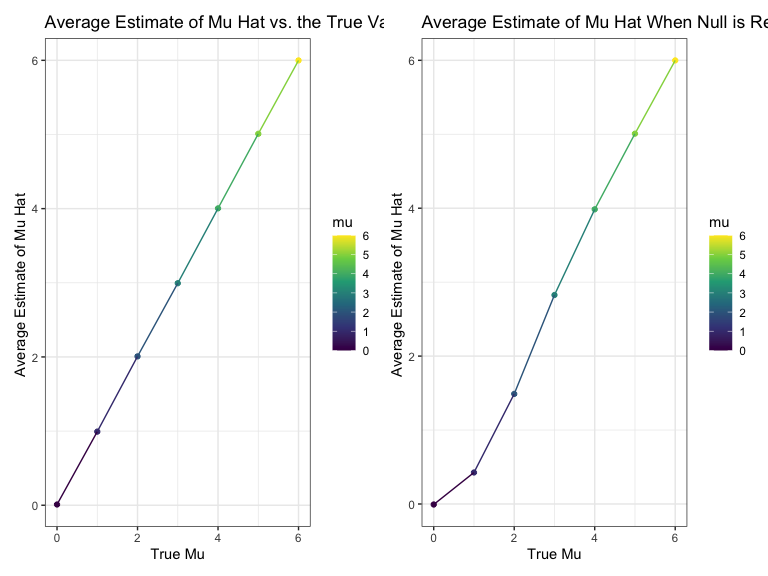
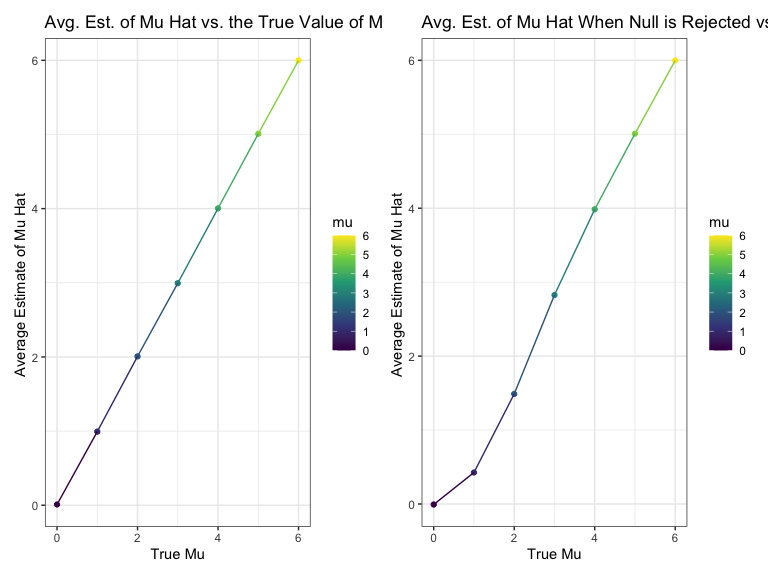
minor code changes

Changed region(s): [[0.5625, 0.0312, 1.0, 0.0625], [0.0938, 0.0312, 0.5, 0.0625]]

diff --git a/p8105_hw5_vf2280.md b/p8105_hw5_vf2280.md
@@ -690,7 +690,7 @@ tibble(
   ggplot(aes(x = mu, y = avg_of_estimate, color = mu)) +
   geom_point() +
   labs(
-    title = "Average Estimate of Mu Hat vs. the True Value of Mu",
+    title = "Avg. Est. of Mu Hat vs. the True Value of Mu",
     x = "True Mu",
     y = "Average Estimate of Mu Hat "
   ) +
@@ -708,7 +708,7 @@ plot_avg_rej_true =
   ggplot(aes(x = mu, y = avg_of_rej_estimate, color = mu)) +
   geom_point() +
   labs(
-    title = "Average Estimate of Mu Hat When Null is Rejected vs. the True Value of Mu",
+    title = "Avg. Est. of Mu Hat When Null is Rejected vs. the True Value of Mu",
     x = "True Mu",
     y = "Average Estimate of Mu Hat "
   ) +
